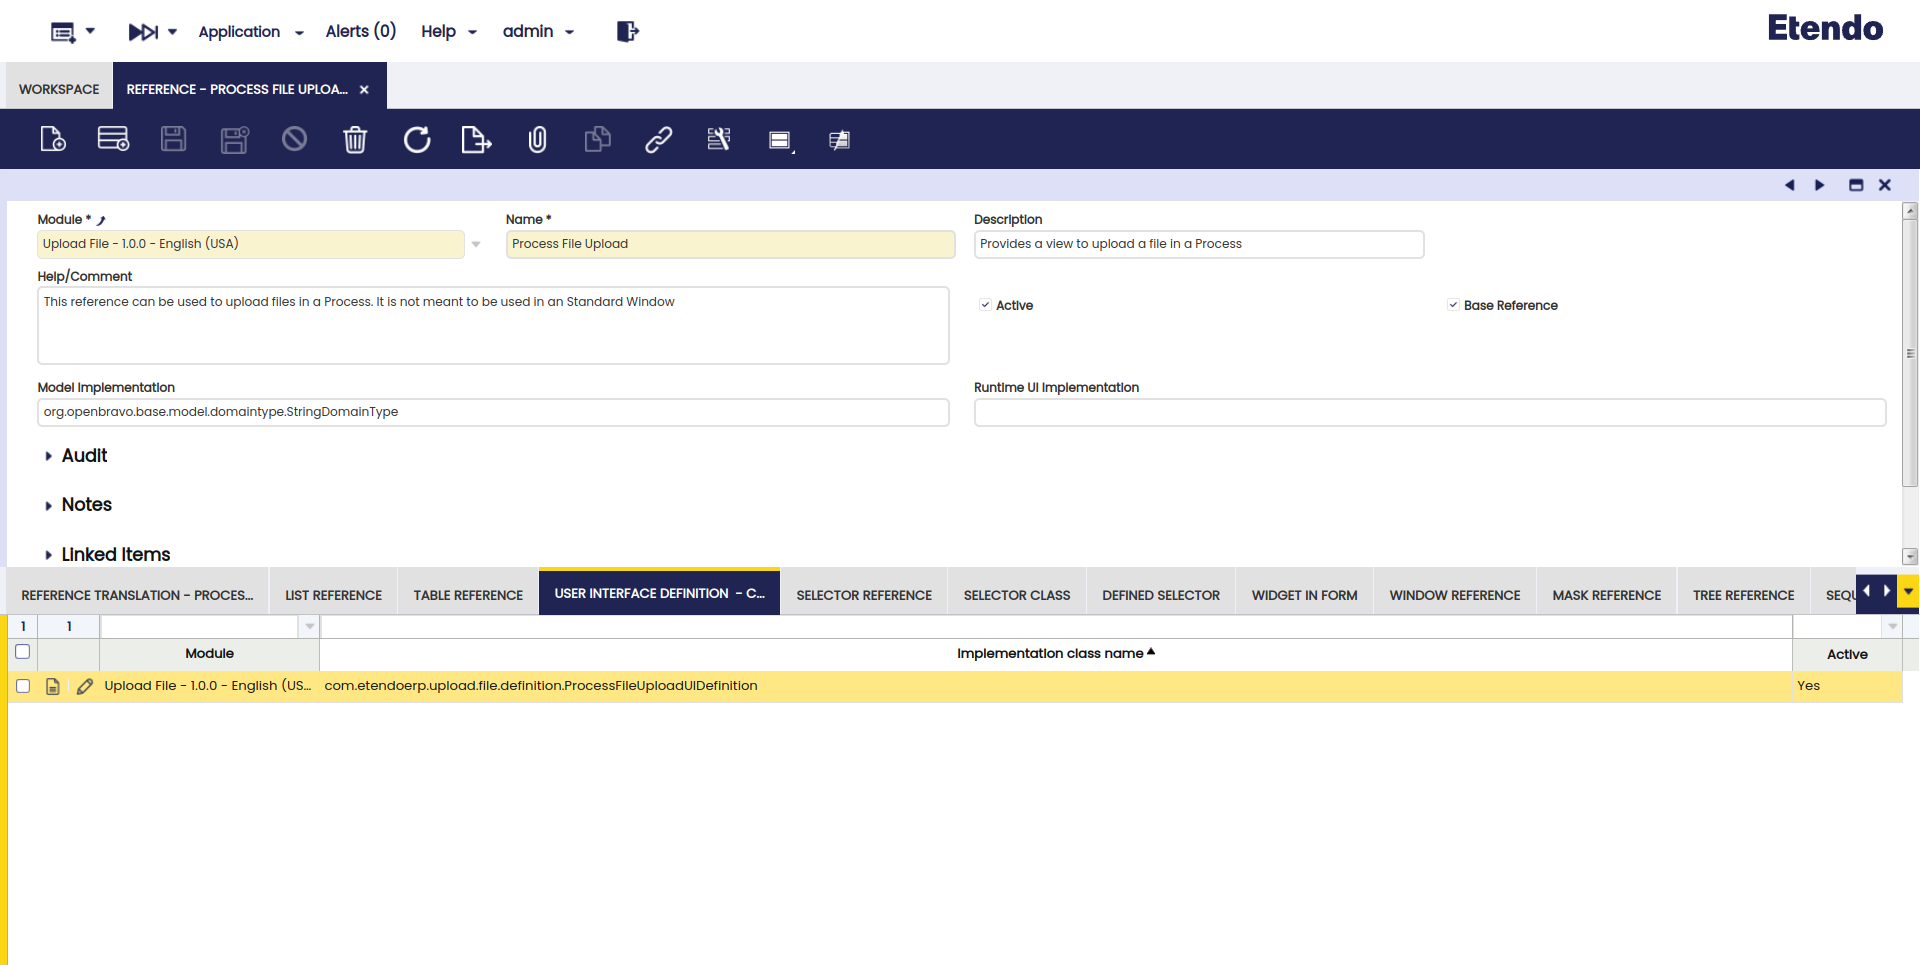
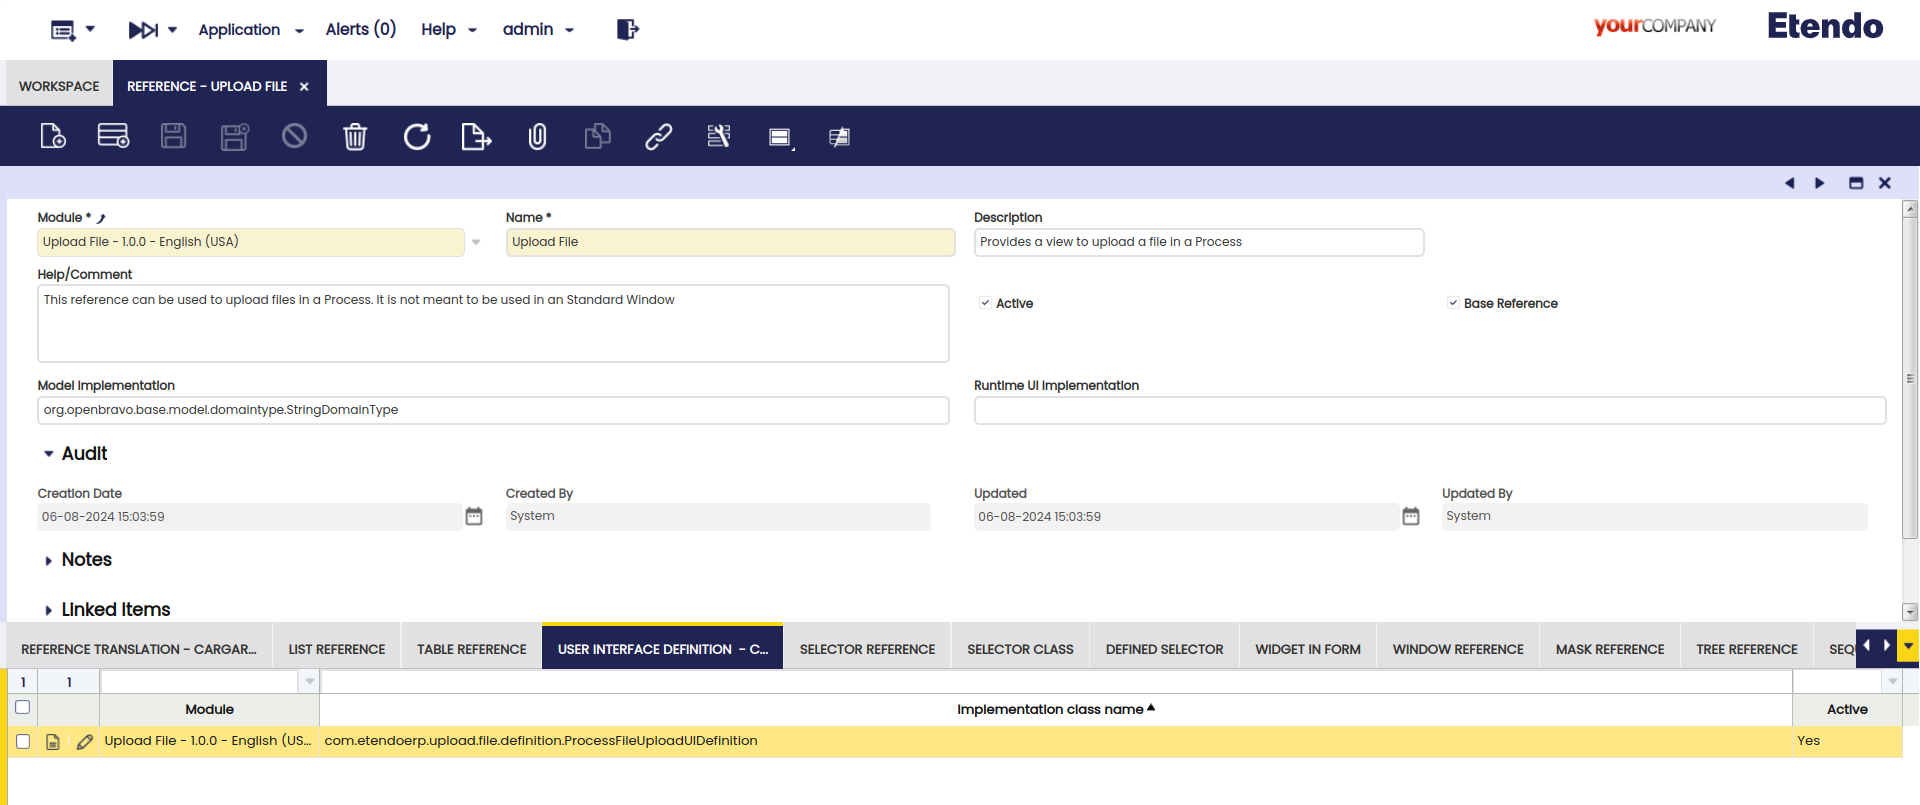
feature EE-1007: add info and change VAs.

diff --git a/docs/developer-guide/etendo-classic/how-to-guides/how-to-create-a-standard-process-definition.md b/docs/developer-guide/etendo-classic/how-to-guides/how-to-create-a-standard-process-definition.md
@@ -520,16 +520,16 @@ This section describes the Etendo **Upload File module** included in the Platfor
 
 The **File reference** enhances the Etendo Classic capabilities by enabling file uploads directly within process definitions. 
 
-This functionality, which can be used in processes as well as in windows, allows uploading files which can then be processed by the system, streamlining workflows and improving efficiency.
+This functionality, which can be used in processes as well as in windows, introduces an **intuitive file upload element** in the process form. Users can upload a **single file** for processing which is then used by the system as specified in the process definition.
 
-#### New Reference
-
-This feature introduces an **intuitive file upload element** in the process form. Users can upload a **single file** for processing, which is then used by the system as specified in the process definition.
+!!!info
+    The maximum file size users are allowed to upload are limited by default to 10MB. This is set in the preference `Maximum file upload size (MB)`. This file size check is performed both on the client's and on the server's side. 
+    For more information about preferences visit the [Preference section in the User Guide](../../../user-guide/etendo-classic/basic-features/general-setup/application.md#preference).
 
 
 #### Example in Process Definition
 
-The proposed solution involves incorporating a **Process File Upload** Reference as a process parameter in process definitions.
+The proposed solution involves incorporating a **File Upload** Reference as a process parameter in process definitions.
 
 This reference has a User Interface Definition which calls the process, this can be seen in the **Process Definition tab**:
 
@@ -540,7 +540,7 @@ This reference has a User Interface Definition which calls the process, this can
 This definition calls a process `OBProcessFileUpload` that executes a JavaScript that has all the definitions, rules and configurations to make the reference work, and allows to select a file for later upload.
 
 !!!info
-    Any file can be selected because this module was thought as a base so that programmers can use it for their needs. 
+    Any file can be selected since this module was thought as a base so that programmers can use it for their needs. 
 
 This is an example of a `Process Definition` created, it is defined as follows:
 
